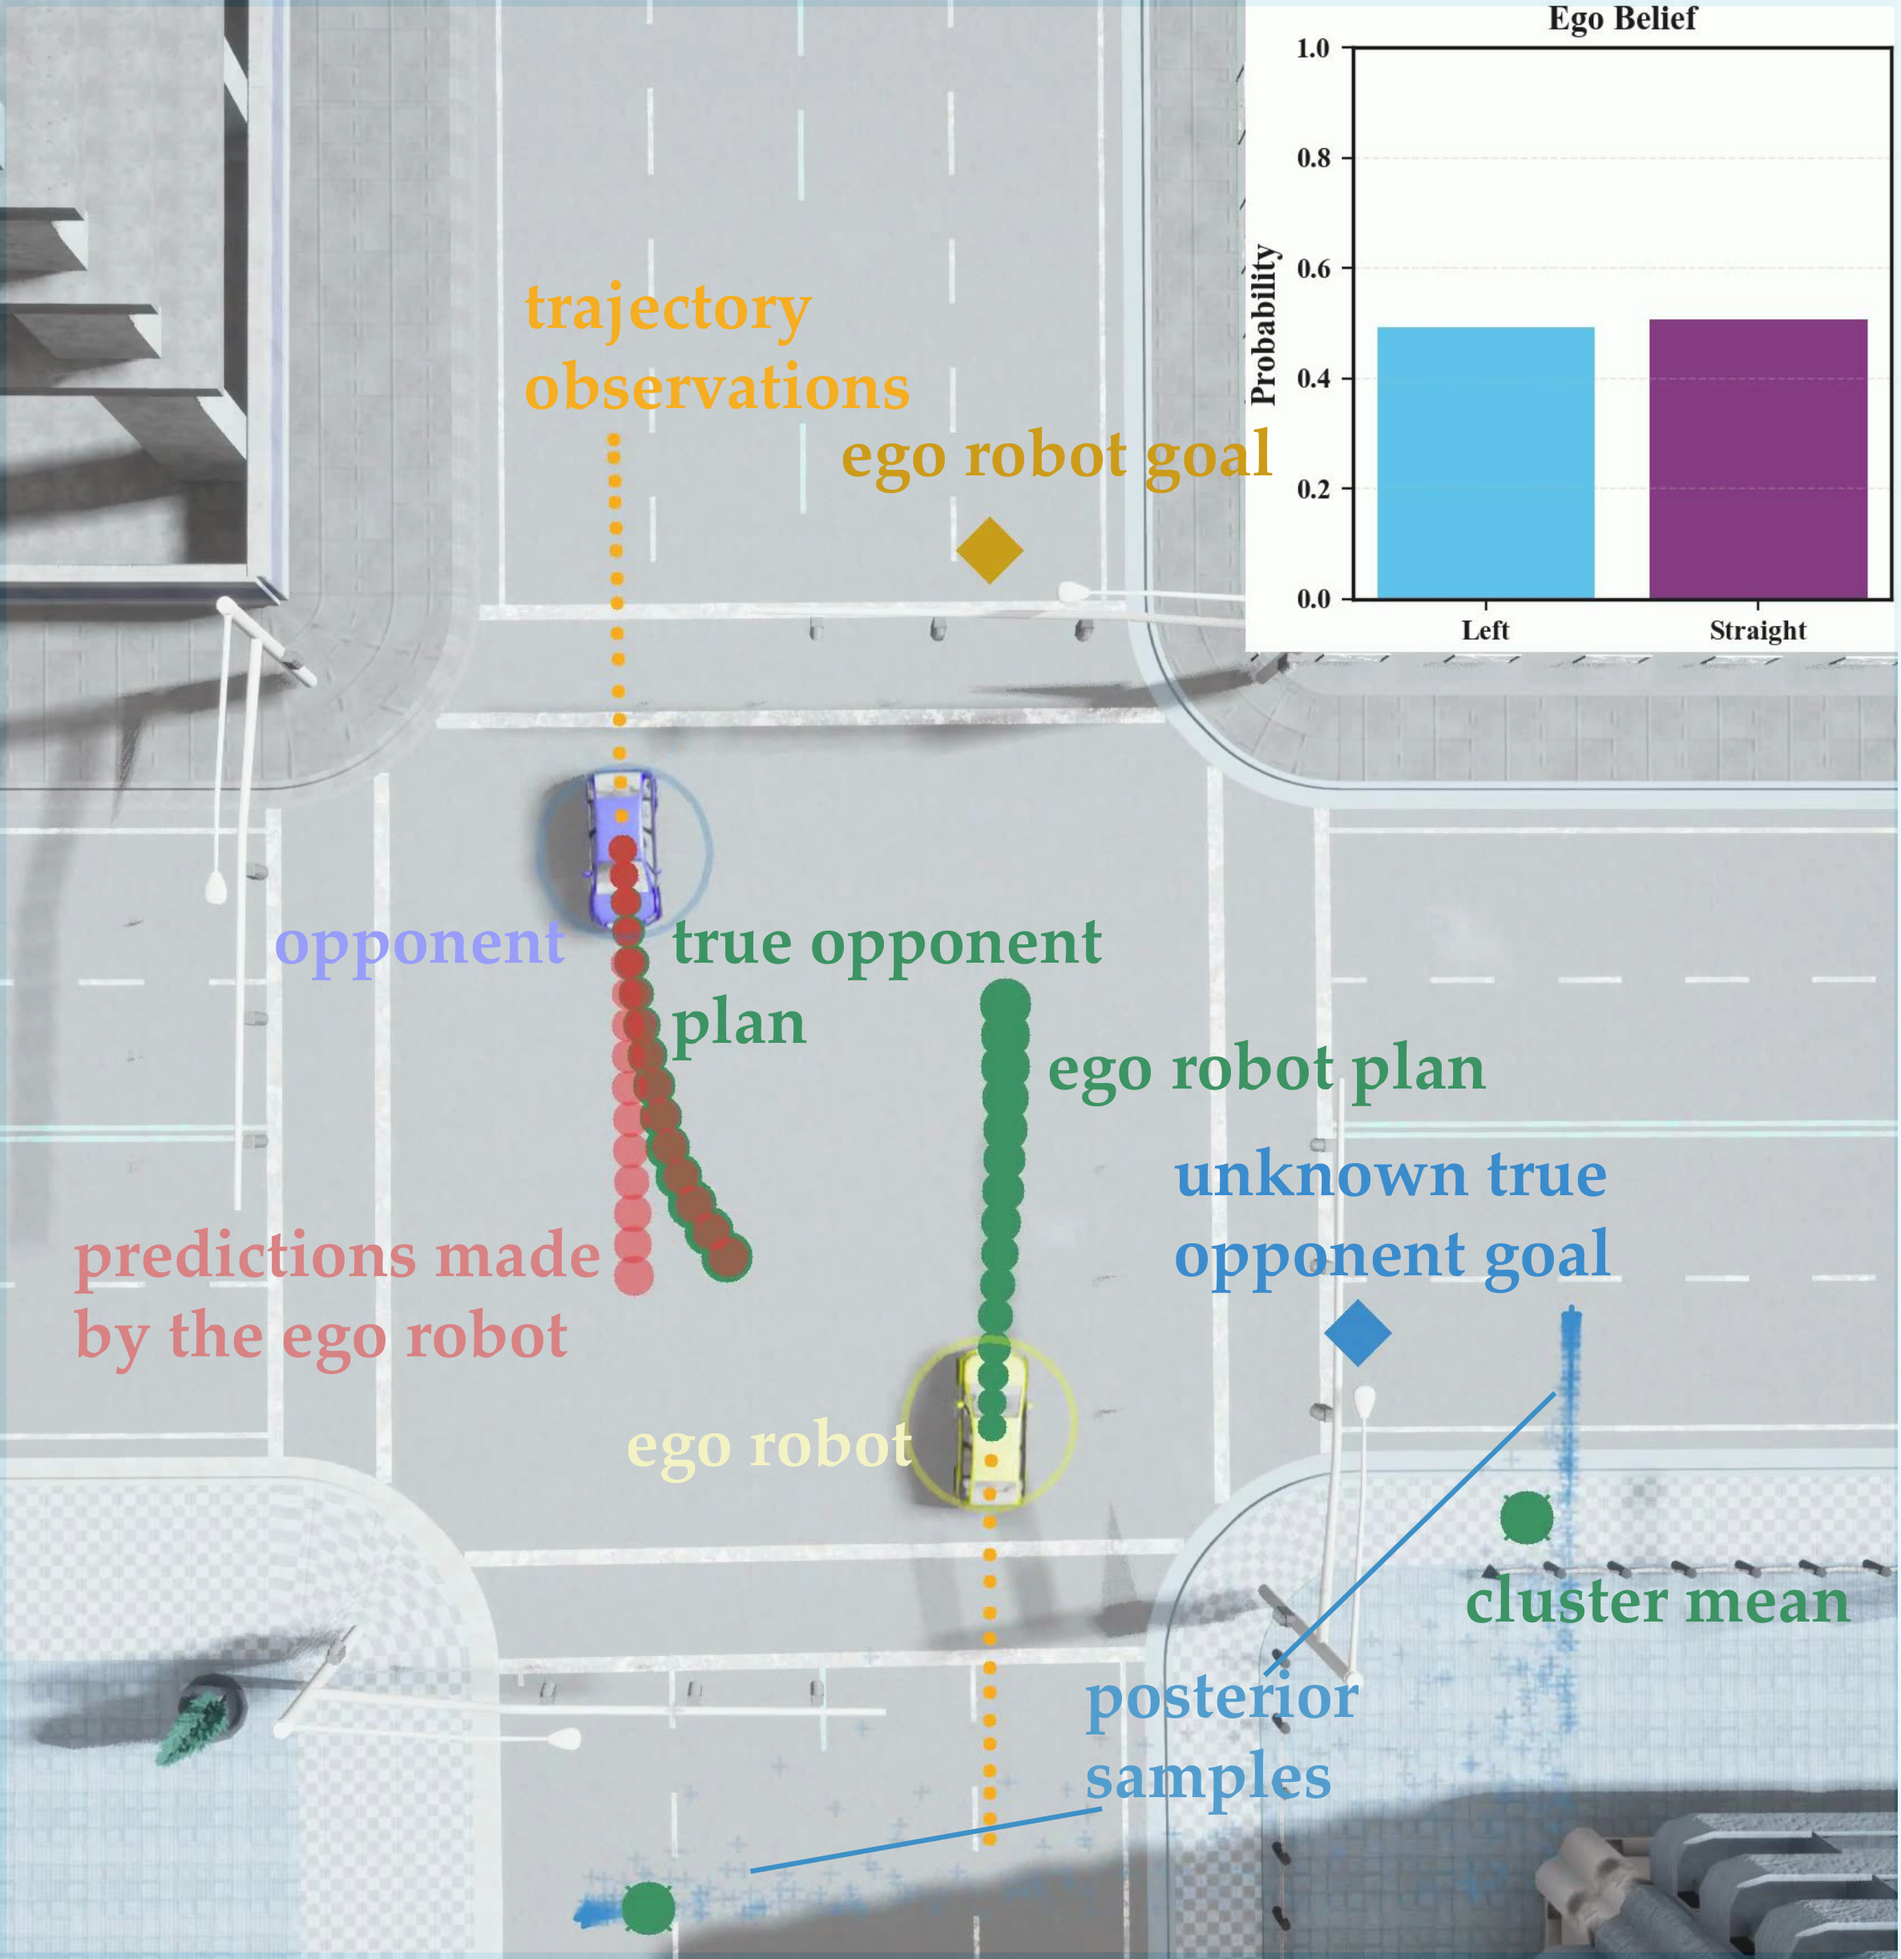
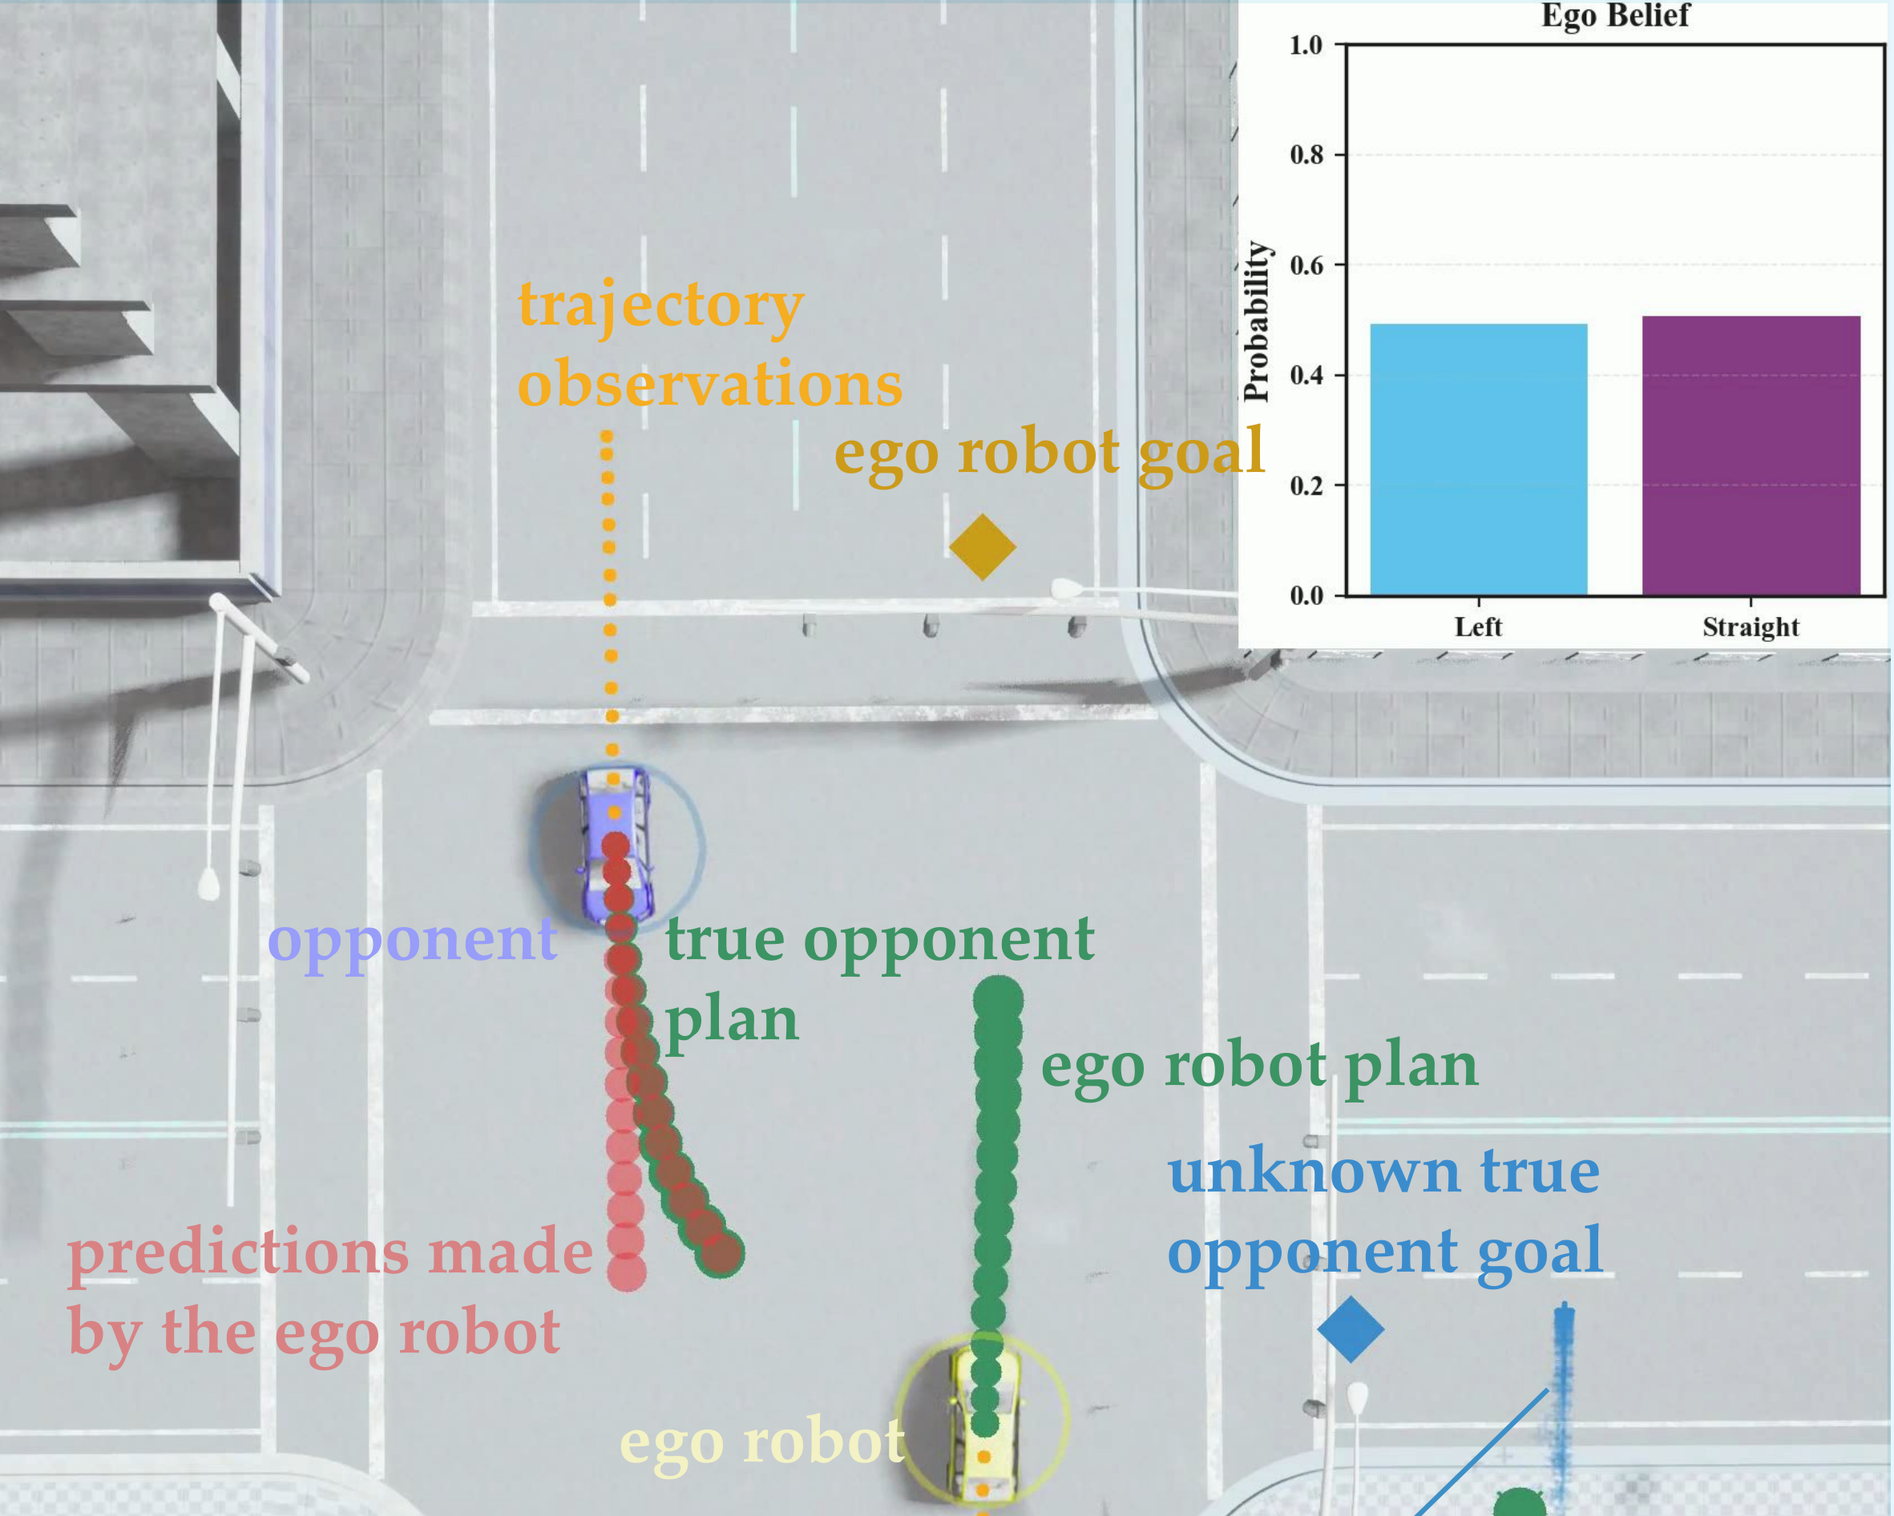
update

diff --git a/_projects/multimodalinversegames.md b/_projects/multimodalinversegames.md
@@ -1,7 +1,7 @@
 ---
 layout: post
 title: "Bayesian Inverse Games with High-Dimensional Multi-Modal Observations"
-# description: Approximate Bayesian inference from multimodal observations 
+description: Approximate Bayesian inference from image and state observations in Nash games
 img: assets/img/ijrr_front_figure.png
 importance: 2
 category: Research projects

diff --git a/_projects/zero_sum.md b/_projects/zero_sum.md
@@ -3,7 +3,7 @@ layout: post
 title: "Second-Order Algorithms for Zero-Sum Nash Games"
 description: Second-order algorithms that provably only converge to strict Nash equilibria
 img: assets/img/gan_comparison.png
-importance: 1
+importance: 4
 category: Research projects
 redirect: https://arxiv.org/abs/2406.03565
 ---

diff --git a/_projects/bayesian-inverse-games.md b/_projects/bayesian-inverse-games.md
@@ -3,7 +3,7 @@ layout: page
 title: "Auto-Encoding Bayesian Inverse Games"
 img: assets/img/bayesian-inverse-games-partial.png
 description: Multi-modal distribution inference, uncertainty, generative modelling, differentiable programming
-importance: 2
+importance: 5
 category: Research projects
 ---
 

diff --git a/_projects/game.md b/_projects/game.md
@@ -3,7 +3,7 @@ layout: page
 title: "Differentiable Adaptive Game-Theoretic Planner"
 img: assets/img/highway_cover.png
 description: Adaptive game-theoretic planning enabled by a differentiable game solver
-importance: 3
+importance: 6
 category: Research projects
 ---
 
